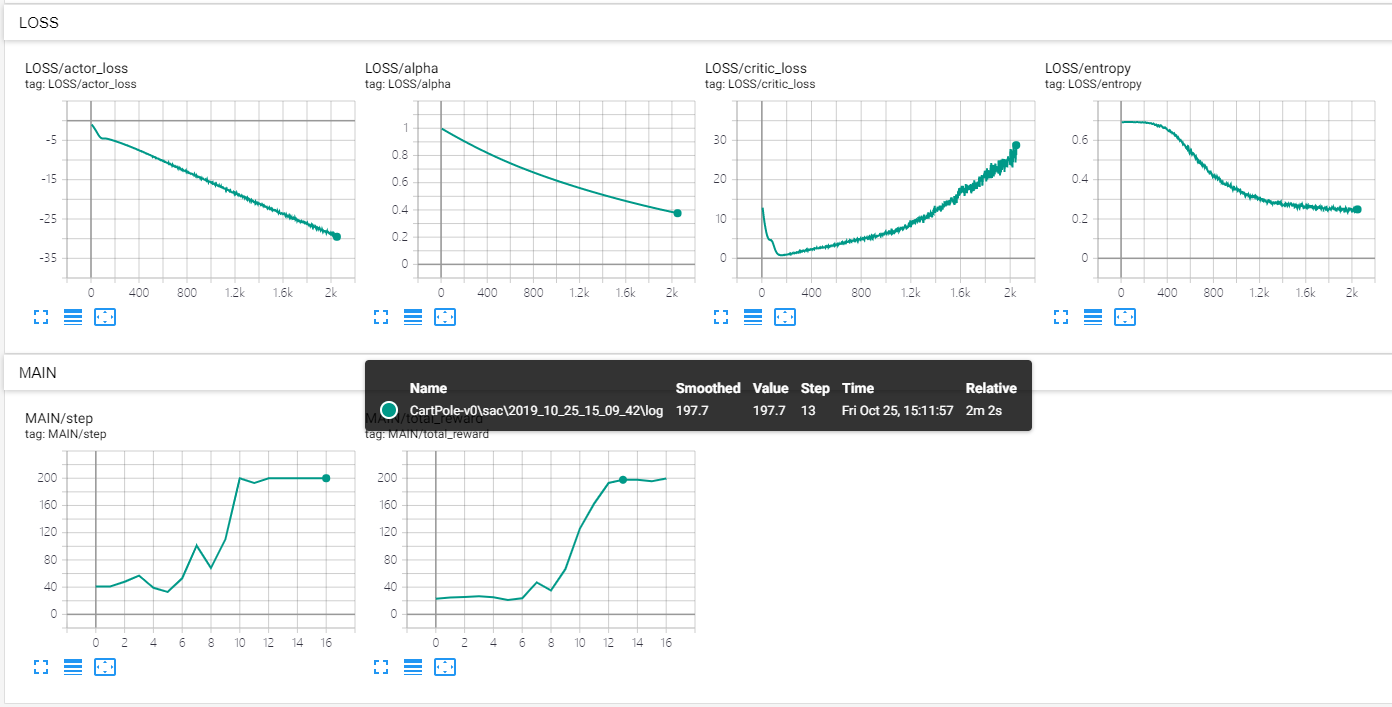
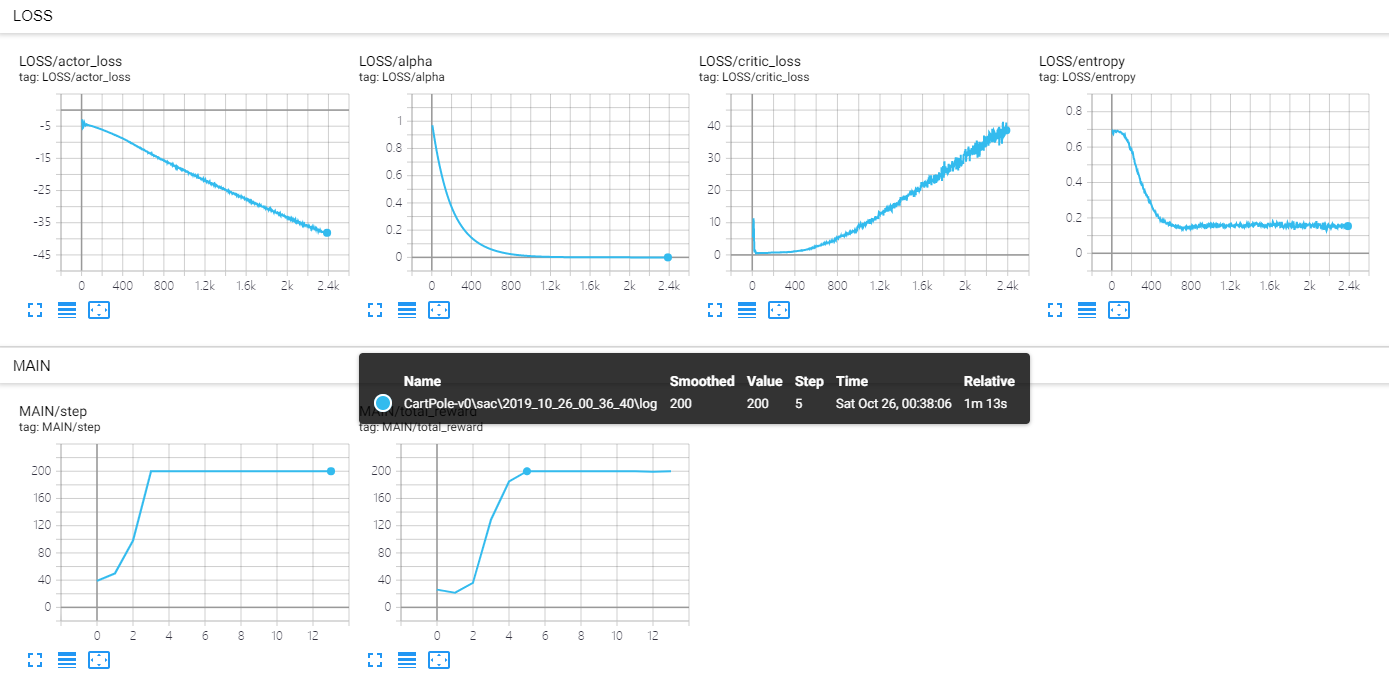
Updated CartPole-v0 result

Changed region(s): [[0.0, 0.0, 1.0, 0.4605], [0.0, 0.4912, 1.0, 0.9825]]

diff --git a/gym_Leaderboard/CartPole-v0/README.md b/gym_Leaderboard/CartPole-v0/README.md
@@ -1,6 +1,6 @@
 # CartPole-v0
 
-- Convergence episode: 12
+- Convergence episode: 3
 - max step per episode: 200
 - algorithm: sac+gumbel[[code]( https://github.com/StepNeverStop/RLs/blob/master/Algorithms/tf2algos/sac.py )]
 - Actor
@@ -15,13 +15,14 @@
 
 Parameters:
 ```
+'alpha': 0.2,
 'auto_adaption': True,
-'gamma': 0.99,
+'gamma': 0.999,
 'ployak': 0.995,
-'lr': 5.0e-4,
+'lr': 5.0e-3,
 'discrete_tau': 1.0,
 'max_episode': 50000,
-'batch_size': 4096,
+'batch_size': 8192,
 'buffer_size': 200000,
 'use_priority': False,
 'n_step': True

diff --git a/gym_Leaderboard/LunarLanderContinuous-v2/README.md b/gym_Leaderboard/LunarLanderContinuous-v2/README.md
@@ -21,7 +21,6 @@ Parameters:
 'gamma': 0.999,
 'ployak': 0.995,
 'lr': 5.0e-3,
-'discrete_tau': 1.0,
 'max_episode': 50000,
 'batch_size': 8192,
 'buffer_size': 200000,
